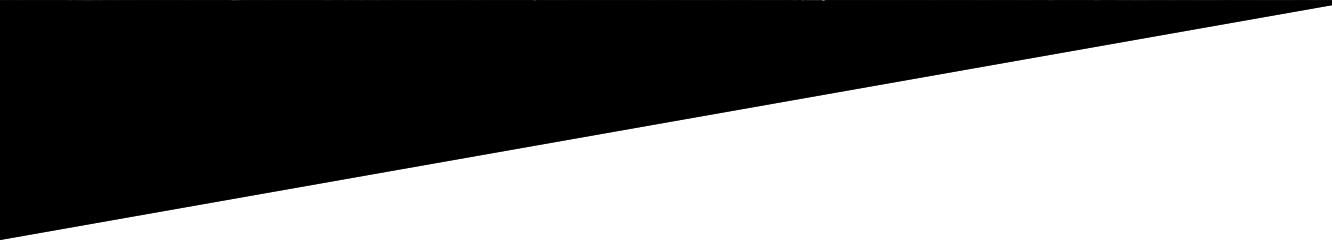
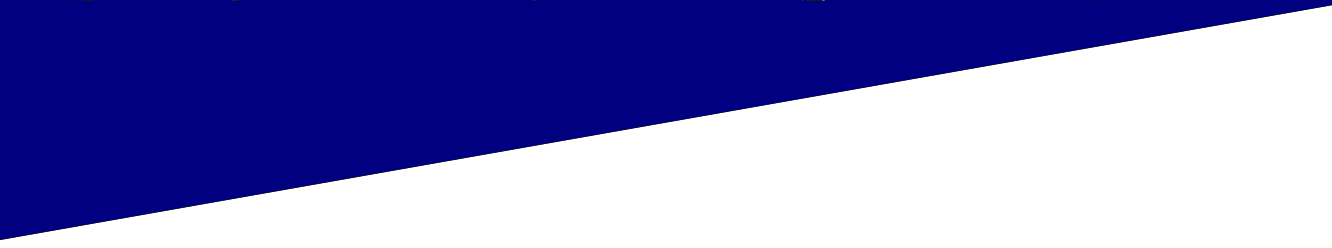
updated landing image and color scheme

diff --git a/src/App.js b/src/App.js
@@ -1,9 +1,14 @@
 import React from 'react';
+import './App.css';
+
+//Images
 import logo from './sb-blue.jpg';
 import wave from './white sound wave.jpg';
 import slant from './slant.png';
 import ombre from './ombre.png';
-import './App.css';
+import beforeAfter from './before-after.png';
+import musicGirl from './music-girl.png';
+import greenMusic from './green-music.png';
 
 //Fonts
 import './fonts/Rubik/Rubik-Bold.ttf';
@@ -13,15 +18,16 @@ function App() {
   return (
     <div className="App">
       <header className="App-header">
-        <img src={logo} alt="logo" />
+        <img src={musicGirl} alt="logo" className="logo" />
         <h1 className="title">Sound Bound</h1>
         <p>Restore decency to the audio experience on the internet</p>
 
       </header>
-      <img src={wave} className="transition"/>
+      <img src={slant} className="transition"/>
       <section className="App-section">
-        <h1>Welcome to sound reimagined.</h1>
+        <h1>welcome to sound reimagined.</h1>
         <p>We get it. You're tired of the egregiously loud jumpscares and Spotify Ads. Yet, at the same time, you can barely hear the dialogue when you need it most while watching a movie on Netflix. Sound Bound is here to change that.</p>
+        <img src={beforeAfter} className="beforeAfter"/>
       </section>
     </div>
   );

diff --git a/src/App.css b/src/App.css
@@ -31,16 +31,15 @@ width: 100vw;
 }
 
 .App-header {
-  background-color: #000000;
+  background-color: #000080;
   min-height: 100vh;
-
   display: flex;
   flex-direction: column;
   align-items: center;
   justify-content: center;
   font-size: calc(10px + 2vmin);
   font-family:'Rubik-Regular';
-  color: #15c3eb;
+  color: #FADCD9 /*15c3eb;*/
 }
 
 .App-section {
@@ -58,9 +57,20 @@ width: 100vw;
   margin-right: 10vw;
 }
 
-@media all and (max-width: 500){
+.beforeAfter{
+  width: 100%;
+  margin-top: 30px;
+}
+
+@media all and (max-width: 375px){
+  .logo{
+    width: 300px;
+  }
+}
+@media all and (max-width: 1000px){
   .App-section {
-   margin-left:10px;
+   margin-left:100px;
+   margin-right:100px;
   }
 }
 
